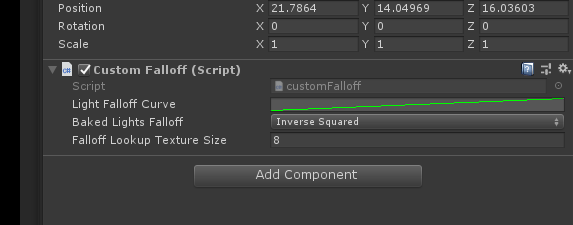
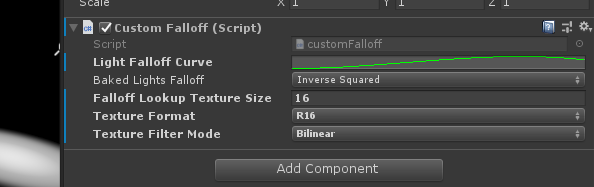
added more texture options

diff --git a/Packages/com.alexismorin.falloffcustomizer/scripts/customFalloff.cs b/Packages/com.alexismorin.falloffcustomizer/scripts/customFalloff.cs
@@ -14,12 +14,16 @@ public class customFalloff : MonoBehaviour {
     public FalloffType bakedLightsFalloff = FalloffType.InverseSquared;
     [SerializeField]
     public int falloffLookupTextureSize = 8;
+    [SerializeField]
+    public TextureFormat textureFormat = TextureFormat.ARGB32;
+    [SerializeField]
+    public FilterMode textureFilterMode = FilterMode.Trilinear;
 
     public void adjustFalloffCurve () {
 
         int pixelCount = falloffLookupTextureSize;
-        Texture2D m_AttenTex = new Texture2D (pixelCount, 1, TextureFormat.ARGB32, false, true);
-        m_AttenTex.filterMode = FilterMode.Trilinear;
+        Texture2D m_AttenTex = new Texture2D (pixelCount, 1, textureFormat, false, true);
+        m_AttenTex.filterMode = textureFilterMode;
         m_AttenTex.wrapMode = TextureWrapMode.Clamp;
         Color[] pixels = new Color[pixelCount * pixelCount];
         Vector2 center = new Vector2 (0, pixelCount / 2);

diff --git a/README.md b/README.md
@@ -14,6 +14,8 @@ Navigate to the *Falloff Customizer* folder in the packages section of the proje
 - Adjust the curve to edit the falloff for your lights - this is pretty straightforward, but keep in mind that best results are achieved by having the curve time remain in the 0-1 range.
 - You can adjust the falloff for the progressive lightmapper. Just switch between settings, disable then re-enable the script - results will change on your next bake.
 - You can adjust the resolution of the falloff lookup texture that the package generates (the default editor resolution is 16); adjust to your liking - I find 8 better but 16 has a little more edge to it.
+- You can adjust the texture format of the lookup texture for better quality - ARGB32 is the default but R16 can smooth things out a little.
+- You can adjust the filter mode of the lookup texture - bilinear is a good tradeoff between performance and quality.
 
 ![gif](images/gif.gif)
 
